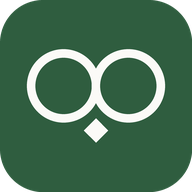
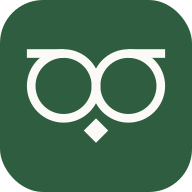
Body Update

diff --git a/public/index.html b/public/index.html
@@ -26,7 +26,7 @@
 
 <header class="site">
   <div class="wrap">
-    <a class="brand" href="/"><svg viewBox="0 0 1600 1083" aria-hidden="true" focusable="false"><g fill="none" stroke="currentColor" stroke-width="99"><circle cx="424.5" cy="424.5" r="375"/><circle cx="1174.5" cy="424.5" r="375"/></g><path d="M800 800 941 941 800 1082 659 941Z" fill="currentColor"/></svg><span>Owl Orchard</span></a>
+    <a class="brand" href="/"><svg viewBox="0 0 1600 1083.17" aria-hidden="true" focusable="false"><g fill="currentColor"><rect width="425" height="100"/><rect x="1175" width="425" height="100"/><path d="M800 800.33 941.42 941.75 800 1083.17 658.58 941.75Z"/></g><g fill="none" stroke="currentColor" stroke-width="100"><circle cx="425" cy="425" r="375"/><circle cx="1175" cy="425" r="375"/></g></svg><span>Owl Orchard</span></a>
     <nav class="site" aria-label="Primary">
       <a href="/#apps" aria-current="page">Apps</a>
       <a href="/about.html">About</a>
@@ -41,13 +41,11 @@
   <div class="wrap">
     <div class="prose">
       <span class="eyebrow">Independent studio &middot; Oregon, USA</span>
-      <h1>Native apps, built one at a time.</h1>
+      <h1>Organic experiences, native to iOS</h1>
       <p class="lede">Owl Orchard is an independent software studio in Oregon, building
-      native apps for iPhone, iPad, and Mac. Five so far: hexagonal chess, card games that
-      live inside iMessage, a tracker for the U.S. Congress, and a music visualizer for
-      macOS.</p>
-      <p>Every one of them is free. None of them show you an advertisement, and none of them
-      ask you to make an account unless you actually want a ranked online match.</p>
+      apps for iPhone, iPad, and Mac. Four so far: Hexagonal Chess, Card Games that
+      iMessage, a tracker for the U.S. Congress, and a music visualizer for macOS.</p>
+      <p>No ads. 100% free. All profits are from optional in-app purchases.</p>
       <div class="hero-actions">
         <a class="btn btn-primary" href="#apps">See the apps</a>
         <a class="btn btn-ghost" href="/about.html">About the studio</a>
@@ -67,7 +65,7 @@
   <div class="wrap">
     <div class="prose" style="margin-bottom:34px">
       <h2>The apps</h2>
-      <p>Four are on the App Store today. The fifth is finished and on its way.</p>
+      <p>Four on the App Store today with the fifth on its way.</p>
     </div>
     <div class="appgrid">
       <a class="card t-hexchess reveal" href="/hex-chess.html">
@@ -106,7 +104,7 @@
             <p class="card-sub">Mac &middot; Music</p>
           </div>
         </div>
-        <p class="desc">Milkdrop visuals rendered live from whatever your Mac is playing, with a curated library of 2,500+ community presets.</p>
+        <p class="desc">Milkdrop visuals rendered live from whatever your Mac is playing, with a curated library of 7,500+ community presets.</p>
         <div class="card-foot">
           <span class="pill pill-live">On the App Store</span>
           <span class="more" aria-hidden="true">View &rarr;</span>
@@ -134,7 +132,7 @@
             <p class="card-sub">iMessage app &middot; Card game</p>
           </div>
         </div>
-        <p class="desc">Texas Hold&rsquo;Em, Omaha, and 7 Card Stud, dealt straight into a conversation. No real money, ever.</p>
+        <p class="desc">Texas Hold&rsquo;Em, Omaha, and 7 Card Stud, dealt straight into an iMessage conversation.</p>
         <div class="card-foot">
           <span class="pill pill-soon">Coming soon</span>
           <span class="more" aria-hidden="true">View &rarr;</span>
@@ -148,8 +146,7 @@
   <div class="wrap">
     <div class="prose" style="margin-bottom:8px">
       <h2>How the work gets done</h2>
-      <p>Four things hold across every project, whether it is a chess engine or a
-      congressional bill feed.</p>
+      <p>Four things hold across every project, whether it is a chess engine or a congressional bill feed.</p>
     </div>
 
   <ul class="features reveal">
@@ -159,35 +156,17 @@
     </li>
     <li>
       <h3>Free, and honest about it</h3>
-      <p>Every app is free to download and free to play. There is no advertising SDK in any of them, no subscription, and no feature held hostage. The only thing ever sold is a cosmetic card back, bought once.</p>
+      <p>Every app is free to download and free to play. There is no advertising SDK in any of them, no subscription, and no feature held hostage. The only thing ever sold are cosmetic card backs.</p>
     </li>
     <li>
-      <h3>Built for more than English</h3>
-      <p>Hex Chess ships in 25 languages, Prism in 22, the card game apps in 18. VoiceOver and Voice Control reach individual cards and board tiles; Dynamic Type and Reduce Motion are honored throughout.</p>
+      <h3>Built to be accessible</h3>
+      <p>VoiceOver and Voice Control reach individual cards and board tiles, not just top-level buttons. Dynamic Type and Reduce Motion are honored throughout, and colour is never the only thing carrying meaning.</p>
     </li>
     <li>
-      <h3>Privacy as an architecture choice</h3>
+      <h3>Privacy is the architecture choice</h3>
       <p>The iMessage apps contain no networking code at all. Politica resolves your location on device and never transmits it. Hex Chess only asks for an account if you want a ranked online game. Nothing is tracked, sold, or shared.</p>
     </li>
   </ul>
-  </div>
-</section>
-
-<section class="section">
-  <div class="wrap">
-    <div class="prose reveal">
-      <span class="eyebrow">The studio</span>
-      <h2>Made in Oregon, slowly.</h2>
-      <p>Owl Orchard is small and independent, with no investors to answer to and no growth
-      target to hit. That shows up in the work: fewer apps, released when they are actually
-      finished, and kept working afterwards rather than replaced by the next thing.</p>
-      <p>It also means nobody here is arguing for an analytics SDK, and no app in the
-      catalogue needs anything from you beyond the time you choose to spend in it.</p>
-      <div class="hero-actions">
-        <a class="btn btn-ghost" href="/about.html">About the studio</a>
-        <a class="btn btn-ghost" href="/support.html">Get in touch</a>
-      </div>
-    </div>
   </div>
 </section>
 
@@ -198,9 +177,8 @@
     <div class="foot-grid">
 
       <div>
-        <span class="foot-brand"><svg viewBox="0 0 1600 1083" aria-hidden="true" focusable="false"><g fill="none" stroke="currentColor" stroke-width="99"><circle cx="424.5" cy="424.5" r="375"/><circle cx="1174.5" cy="424.5" r="375"/></g><path d="M800 800 941 941 800 1082 659 941Z" fill="currentColor"/></svg><span>Owl Orchard</span></span>
-        <p>An independent software studio in Oregon, building native apps for
-        Apple platforms. Free, quiet, and made to last.</p>
+        <span class="foot-brand"><svg viewBox="0 0 1600 1083.17" aria-hidden="true" focusable="false"><g fill="currentColor"><rect width="425" height="100"/><rect x="1175" width="425" height="100"/><path d="M800 800.33 941.42 941.75 800 1083.17 658.58 941.75Z"/></g><g fill="none" stroke="currentColor" stroke-width="100"><circle cx="425" cy="425" r="375"/><circle cx="1175" cy="425" r="375"/></g></svg><span>Owl Orchard</span></span>
+        <p>An independent software studio in Oregon, building native apps for Apple platforms.</p>
       </div>
 
       <div>

diff --git a/public/about.html b/public/about.html
@@ -25,7 +25,7 @@
 
 <header class="site">
   <div class="wrap">
-    <a class="brand" href="/"><svg viewBox="0 0 1600 1083" aria-hidden="true" focusable="false"><g fill="none" stroke="currentColor" stroke-width="99"><circle cx="424.5" cy="424.5" r="375"/><circle cx="1174.5" cy="424.5" r="375"/></g><path d="M800 800 941 941 800 1082 659 941Z" fill="currentColor"/></svg><span>Owl Orchard</span></a>
+    <a class="brand" href="/"><svg viewBox="0 0 1600 1083.17" aria-hidden="true" focusable="false"><g fill="currentColor"><rect width="425" height="100"/><rect x="1175" width="425" height="100"/><path d="M800 800.33 941.42 941.75 800 1083.17 658.58 941.75Z"/></g><g fill="none" stroke="currentColor" stroke-width="100"><circle cx="425" cy="425" r="375"/><circle cx="1175" cy="425" r="375"/></g></svg><span>Owl Orchard</span></a>
     <nav class="site" aria-label="Primary">
       <a href="/#apps">Apps</a>
       <a href="/about.html" aria-current="page">About</a>
@@ -40,9 +40,8 @@
   <div class="wrap">
     <div class="prose">
       <span class="eyebrow">About</span>
-      <h1>An independent studio in Oregon.</h1>
-      <p class="lede">Owl Orchard LLC builds native applications for iPhone, iPad, and Mac.
-      Five of them so far, and every one is free.</p>
+      <h1>Homegrown in Oregon.</h1>
+      <p class="lede">Owl Orchard builds native applications for iPhone, iPad, and Mac.</p>
     </div>
   </div>
 </section>
@@ -101,7 +100,7 @@
     <div class="foot-grid">
 
       <div>
-        <span class="foot-brand"><svg viewBox="0 0 1600 1083" aria-hidden="true" focusable="false"><g fill="none" stroke="currentColor" stroke-width="99"><circle cx="424.5" cy="424.5" r="375"/><circle cx="1174.5" cy="424.5" r="375"/></g><path d="M800 800 941 941 800 1082 659 941Z" fill="currentColor"/></svg><span>Owl Orchard</span></span>
+        <span class="foot-brand"><svg viewBox="0 0 1600 1083.17" aria-hidden="true" focusable="false"><g fill="currentColor"><rect width="425" height="100"/><rect x="1175" width="425" height="100"/><path d="M800 800.33 941.42 941.75 800 1083.17 658.58 941.75Z"/></g><g fill="none" stroke="currentColor" stroke-width="100"><circle cx="425" cy="425" r="375"/><circle cx="1175" cy="425" r="375"/></g></svg><span>Owl Orchard</span></span>
         <p>An independent software studio in Oregon, building native apps for
         Apple platforms. Free, quiet, and made to last.</p>
       </div>

diff --git a/public/card-games-for-imessage.html b/public/card-games-for-imessage.html
@@ -26,7 +26,7 @@
 
 <header class="site">
   <div class="wrap">
-    <a class="brand" href="/"><svg viewBox="0 0 1600 1083" aria-hidden="true" focusable="false"><g fill="none" stroke="currentColor" stroke-width="99"><circle cx="424.5" cy="424.5" r="375"/><circle cx="1174.5" cy="424.5" r="375"/></g><path d="M800 800 941 941 800 1082 659 941Z" fill="currentColor"/></svg><span>Owl Orchard</span></a>
+    <a class="brand" href="/"><svg viewBox="0 0 1600 1083.17" aria-hidden="true" focusable="false"><g fill="currentColor"><rect width="425" height="100"/><rect x="1175" width="425" height="100"/><path d="M800 800.33 941.42 941.75 800 1083.17 658.58 941.75Z"/></g><g fill="none" stroke="currentColor" stroke-width="100"><circle cx="425" cy="425" r="375"/><circle cx="1175" cy="425" r="375"/></g></svg><span>Owl Orchard</span></a>
     <nav class="site" aria-label="Primary">
       <a href="/#apps">Apps</a>
       <a href="/about.html">About</a>
@@ -130,7 +130,7 @@
     <div class="foot-grid">
 
       <div>
-        <span class="foot-brand"><svg viewBox="0 0 1600 1083" aria-hidden="true" focusable="false"><g fill="none" stroke="currentColor" stroke-width="99"><circle cx="424.5" cy="424.5" r="375"/><circle cx="1174.5" cy="424.5" r="375"/></g><path d="M800 800 941 941 800 1082 659 941Z" fill="currentColor"/></svg><span>Owl Orchard</span></span>
+        <span class="foot-brand"><svg viewBox="0 0 1600 1083.17" aria-hidden="true" focusable="false"><g fill="currentColor"><rect width="425" height="100"/><rect x="1175" width="425" height="100"/><path d="M800 800.33 941.42 941.75 800 1083.17 658.58 941.75Z"/></g><g fill="none" stroke="currentColor" stroke-width="100"><circle cx="425" cy="425" r="375"/><circle cx="1175" cy="425" r="375"/></g></svg><span>Owl Orchard</span></span>
         <p>An independent software studio in Oregon, building native apps for
         Apple platforms. Free, quiet, and made to last.</p>
       </div>

diff --git a/public/hex-chess.html b/public/hex-chess.html
@@ -26,7 +26,7 @@
 
 <header class="site">
   <div class="wrap">
-    <a class="brand" href="/"><svg viewBox="0 0 1600 1083" aria-hidden="true" focusable="false"><g fill="none" stroke="currentColor" stroke-width="99"><circle cx="424.5" cy="424.5" r="375"/><circle cx="1174.5" cy="424.5" r="375"/></g><path d="M800 800 941 941 800 1082 659 941Z" fill="currentColor"/></svg><span>Owl Orchard</span></a>
+    <a class="brand" href="/"><svg viewBox="0 0 1600 1083.17" aria-hidden="true" focusable="false"><g fill="currentColor"><rect width="425" height="100"/><rect x="1175" width="425" height="100"/><path d="M800 800.33 941.42 941.75 800 1083.17 658.58 941.75Z"/></g><g fill="none" stroke="currentColor" stroke-width="100"><circle cx="425" cy="425" r="375"/><circle cx="1175" cy="425" r="375"/></g></svg><span>Owl Orchard</span></a>
     <nav class="site" aria-label="Primary">
       <a href="/#apps">Apps</a>
       <a href="/about.html">About</a>
@@ -131,7 +131,7 @@
     <div class="foot-grid">
 
       <div>
-        <span class="foot-brand"><svg viewBox="0 0 1600 1083" aria-hidden="true" focusable="false"><g fill="none" stroke="currentColor" stroke-width="99"><circle cx="424.5" cy="424.5" r="375"/><circle cx="1174.5" cy="424.5" r="375"/></g><path d="M800 800 941 941 800 1082 659 941Z" fill="currentColor"/></svg><span>Owl Orchard</span></span>
+        <span class="foot-brand"><svg viewBox="0 0 1600 1083.17" aria-hidden="true" focusable="false"><g fill="currentColor"><rect width="425" height="100"/><rect x="1175" width="425" height="100"/><path d="M800 800.33 941.42 941.75 800 1083.17 658.58 941.75Z"/></g><g fill="none" stroke="currentColor" stroke-width="100"><circle cx="425" cy="425" r="375"/><circle cx="1175" cy="425" r="375"/></g></svg><span>Owl Orchard</span></span>
         <p>An independent software studio in Oregon, building native apps for
         Apple platforms. Free, quiet, and made to last.</p>
       </div>

diff --git a/public/poker-for-imessage.html b/public/poker-for-imessage.html
@@ -26,7 +26,7 @@
 
 <header class="site">
   <div class="wrap">
-    <a class="brand" href="/"><svg viewBox="0 0 1600 1083" aria-hidden="true" focusable="false"><g fill="none" stroke="currentColor" stroke-width="99"><circle cx="424.5" cy="424.5" r="375"/><circle cx="1174.5" cy="424.5" r="375"/></g><path d="M800 800 941 941 800 1082 659 941Z" fill="currentColor"/></svg><span>Owl Orchard</span></a>
+    <a class="brand" href="/"><svg viewBox="0 0 1600 1083.17" aria-hidden="true" focusable="false"><g fill="currentColor"><rect width="425" height="100"/><rect x="1175" width="425" height="100"/><path d="M800 800.33 941.42 941.75 800 1083.17 658.58 941.75Z"/></g><g fill="none" stroke="currentColor" stroke-width="100"><circle cx="425" cy="425" r="375"/><circle cx="1175" cy="425" r="375"/></g></svg><span>Owl Orchard</span></a>
     <nav class="site" aria-label="Primary">
       <a href="/#apps">Apps</a>
       <a href="/about.html">About</a>
@@ -138,7 +138,7 @@
     <div class="foot-grid">
 
       <div>
-        <span class="foot-brand"><svg viewBox="0 0 1600 1083" aria-hidden="true" focusable="false"><g fill="none" stroke="currentColor" stroke-width="99"><circle cx="424.5" cy="424.5" r="375"/><circle cx="1174.5" cy="424.5" r="375"/></g><path d="M800 800 941 941 800 1082 659 941Z" fill="currentColor"/></svg><span>Owl Orchard</span></span>
+        <span class="foot-brand"><svg viewBox="0 0 1600 1083.17" aria-hidden="true" focusable="false"><g fill="currentColor"><rect width="425" height="100"/><rect x="1175" width="425" height="100"/><path d="M800 800.33 941.42 941.75 800 1083.17 658.58 941.75Z"/></g><g fill="none" stroke="currentColor" stroke-width="100"><circle cx="425" cy="425" r="375"/><circle cx="1175" cy="425" r="375"/></g></svg><span>Owl Orchard</span></span>
         <p>An independent software studio in Oregon, building native apps for
         Apple platforms. Free, quiet, and made to last.</p>
       </div>

diff --git a/public/politica.html b/public/politica.html
@@ -26,7 +26,7 @@
 
 <header class="site">
   <div class="wrap">
-    <a class="brand" href="/"><svg viewBox="0 0 1600 1083" aria-hidden="true" focusable="false"><g fill="none" stroke="currentColor" stroke-width="99"><circle cx="424.5" cy="424.5" r="375"/><circle cx="1174.5" cy="424.5" r="375"/></g><path d="M800 800 941 941 800 1082 659 941Z" fill="currentColor"/></svg><span>Owl Orchard</span></a>
+    <a class="brand" href="/"><svg viewBox="0 0 1600 1083.17" aria-hidden="true" focusable="false"><g fill="currentColor"><rect width="425" height="100"/><rect x="1175" width="425" height="100"/><path d="M800 800.33 941.42 941.75 800 1083.17 658.58 941.75Z"/></g><g fill="none" stroke="currentColor" stroke-width="100"><circle cx="425" cy="425" r="375"/><circle cx="1175" cy="425" r="375"/></g></svg><span>Owl Orchard</span></a>
     <nav class="site" aria-label="Primary">
       <a href="/#apps">Apps</a>
       <a href="/about.html">About</a>
@@ -150,7 +150,7 @@
     <div class="foot-grid">
 
       <div>
-        <span class="foot-brand"><svg viewBox="0 0 1600 1083" aria-hidden="true" focusable="false"><g fill="none" stroke="currentColor" stroke-width="99"><circle cx="424.5" cy="424.5" r="375"/><circle cx="1174.5" cy="424.5" r="375"/></g><path d="M800 800 941 941 800 1082 659 941Z" fill="currentColor"/></svg><span>Owl Orchard</span></span>
+        <span class="foot-brand"><svg viewBox="0 0 1600 1083.17" aria-hidden="true" focusable="false"><g fill="currentColor"><rect width="425" height="100"/><rect x="1175" width="425" height="100"/><path d="M800 800.33 941.42 941.75 800 1083.17 658.58 941.75Z"/></g><g fill="none" stroke="currentColor" stroke-width="100"><circle cx="425" cy="425" r="375"/><circle cx="1175" cy="425" r="375"/></g></svg><span>Owl Orchard</span></span>
         <p>An independent software studio in Oregon, building native apps for
         Apple platforms. Free, quiet, and made to last.</p>
       </div>

diff --git a/public/prism.html b/public/prism.html
@@ -26,7 +26,7 @@
 
 <header class="site">
   <div class="wrap">
-    <a class="brand" href="/"><svg viewBox="0 0 1600 1083" aria-hidden="true" focusable="false"><g fill="none" stroke="currentColor" stroke-width="99"><circle cx="424.5" cy="424.5" r="375"/><circle cx="1174.5" cy="424.5" r="375"/></g><path d="M800 800 941 941 800 1082 659 941Z" fill="currentColor"/></svg><span>Owl Orchard</span></a>
+    <a class="brand" href="/"><svg viewBox="0 0 1600 1083.17" aria-hidden="true" focusable="false"><g fill="currentColor"><rect width="425" height="100"/><rect x="1175" width="425" height="100"/><path d="M800 800.33 941.42 941.75 800 1083.17 658.58 941.75Z"/></g><g fill="none" stroke="currentColor" stroke-width="100"><circle cx="425" cy="425" r="375"/><circle cx="1175" cy="425" r="375"/></g></svg><span>Owl Orchard</span></a>
     <nav class="site" aria-label="Primary">
       <a href="/#apps">Apps</a>
       <a href="/about.html">About</a>
@@ -139,7 +139,7 @@
     <div class="foot-grid">
 
       <div>
-        <span class="foot-brand"><svg viewBox="0 0 1600 1083" aria-hidden="true" focusable="false"><g fill="none" stroke="currentColor" stroke-width="99"><circle cx="424.5" cy="424.5" r="375"/><circle cx="1174.5" cy="424.5" r="375"/></g><path d="M800 800 941 941 800 1082 659 941Z" fill="currentColor"/></svg><span>Owl Orchard</span></span>
+        <span class="foot-brand"><svg viewBox="0 0 1600 1083.17" aria-hidden="true" focusable="false"><g fill="currentColor"><rect width="425" height="100"/><rect x="1175" width="425" height="100"/><path d="M800 800.33 941.42 941.75 800 1083.17 658.58 941.75Z"/></g><g fill="none" stroke="currentColor" stroke-width="100"><circle cx="425" cy="425" r="375"/><circle cx="1175" cy="425" r="375"/></g></svg><span>Owl Orchard</span></span>
         <p>An independent software studio in Oregon, building native apps for
         Apple platforms. Free, quiet, and made to last.</p>
       </div>

diff --git a/public/privacy-card-games.html b/public/privacy-card-games.html
@@ -25,7 +25,7 @@
 
 <header class="site">
   <div class="wrap">
-    <a class="brand" href="/"><svg viewBox="0 0 1600 1083" aria-hidden="true" focusable="false"><g fill="none" stroke="currentColor" stroke-width="99"><circle cx="424.5" cy="424.5" r="375"/><circle cx="1174.5" cy="424.5" r="375"/></g><path d="M800 800 941 941 800 1082 659 941Z" fill="currentColor"/></svg><span>Owl Orchard</span></a>
+    <a class="brand" href="/"><svg viewBox="0 0 1600 1083.17" aria-hidden="true" focusable="false"><g fill="currentColor"><rect width="425" height="100"/><rect x="1175" width="425" height="100"/><path d="M800 800.33 941.42 941.75 800 1083.17 658.58 941.75Z"/></g><g fill="none" stroke="currentColor" stroke-width="100"><circle cx="425" cy="425" r="375"/><circle cx="1175" cy="425" r="375"/></g></svg><span>Owl Orchard</span></a>
     <nav class="site" aria-label="Primary">
       <a href="/#apps">Apps</a>
       <a href="/about.html">About</a>
@@ -144,7 +144,7 @@
     <div class="foot-grid">
 
       <div>
-        <span class="foot-brand"><svg viewBox="0 0 1600 1083" aria-hidden="true" focusable="false"><g fill="none" stroke="currentColor" stroke-width="99"><circle cx="424.5" cy="424.5" r="375"/><circle cx="1174.5" cy="424.5" r="375"/></g><path d="M800 800 941 941 800 1082 659 941Z" fill="currentColor"/></svg><span>Owl Orchard</span></span>
+        <span class="foot-brand"><svg viewBox="0 0 1600 1083.17" aria-hidden="true" focusable="false"><g fill="currentColor"><rect width="425" height="100"/><rect x="1175" width="425" height="100"/><path d="M800 800.33 941.42 941.75 800 1083.17 658.58 941.75Z"/></g><g fill="none" stroke="currentColor" stroke-width="100"><circle cx="425" cy="425" r="375"/><circle cx="1175" cy="425" r="375"/></g></svg><span>Owl Orchard</span></span>
         <p>An independent software studio in Oregon, building native apps for
         Apple platforms. Free, quiet, and made to last.</p>
       </div>

diff --git a/public/privacy-hex-chess.html b/public/privacy-hex-chess.html
@@ -25,7 +25,7 @@
 
 <header class="site">
   <div class="wrap">
-    <a class="brand" href="/"><svg viewBox="0 0 1600 1083" aria-hidden="true" focusable="false"><g fill="none" stroke="currentColor" stroke-width="99"><circle cx="424.5" cy="424.5" r="375"/><circle cx="1174.5" cy="424.5" r="375"/></g><path d="M800 800 941 941 800 1082 659 941Z" fill="currentColor"/></svg><span>Owl Orchard</span></a>
+    <a class="brand" href="/"><svg viewBox="0 0 1600 1083.17" aria-hidden="true" focusable="false"><g fill="currentColor"><rect width="425" height="100"/><rect x="1175" width="425" height="100"/><path d="M800 800.33 941.42 941.75 800 1083.17 658.58 941.75Z"/></g><g fill="none" stroke="currentColor" stroke-width="100"><circle cx="425" cy="425" r="375"/><circle cx="1175" cy="425" r="375"/></g></svg><span>Owl Orchard</span></a>
     <nav class="site" aria-label="Primary">
       <a href="/#apps">Apps</a>
       <a href="/about.html">About</a>
@@ -131,7 +131,7 @@
     <div class="foot-grid">
 
       <div>
-        <span class="foot-brand"><svg viewBox="0 0 1600 1083" aria-hidden="true" focusable="false"><g fill="none" stroke="currentColor" stroke-width="99"><circle cx="424.5" cy="424.5" r="375"/><circle cx="1174.5" cy="424.5" r="375"/></g><path d="M800 800 941 941 800 1082 659 941Z" fill="currentColor"/></svg><span>Owl Orchard</span></span>
+        <span class="foot-brand"><svg viewBox="0 0 1600 1083.17" aria-hidden="true" focusable="false"><g fill="currentColor"><rect width="425" height="100"/><rect x="1175" width="425" height="100"/><path d="M800 800.33 941.42 941.75 800 1083.17 658.58 941.75Z"/></g><g fill="none" stroke="currentColor" stroke-width="100"><circle cx="425" cy="425" r="375"/><circle cx="1175" cy="425" r="375"/></g></svg><span>Owl Orchard</span></span>
         <p>An independent software studio in Oregon, building native apps for
         Apple platforms. Free, quiet, and made to last.</p>
       </div>

diff --git a/public/privacy-poker.html b/public/privacy-poker.html
@@ -25,7 +25,7 @@
 
 <header class="site">
   <div class="wrap">
-    <a class="brand" href="/"><svg viewBox="0 0 1600 1083" aria-hidden="true" focusable="false"><g fill="none" stroke="currentColor" stroke-width="99"><circle cx="424.5" cy="424.5" r="375"/><circle cx="1174.5" cy="424.5" r="375"/></g><path d="M800 800 941 941 800 1082 659 941Z" fill="currentColor"/></svg><span>Owl Orchard</span></a>
+    <a class="brand" href="/"><svg viewBox="0 0 1600 1083.17" aria-hidden="true" focusable="false"><g fill="currentColor"><rect width="425" height="100"/><rect x="1175" width="425" height="100"/><path d="M800 800.33 941.42 941.75 800 1083.17 658.58 941.75Z"/></g><g fill="none" stroke="currentColor" stroke-width="100"><circle cx="425" cy="425" r="375"/><circle cx="1175" cy="425" r="375"/></g></svg><span>Owl Orchard</span></a>
     <nav class="site" aria-label="Primary">
       <a href="/#apps">Apps</a>
       <a href="/about.html">About</a>
@@ -149,7 +149,7 @@
     <div class="foot-grid">
 
       <div>
-        <span class="foot-brand"><svg viewBox="0 0 1600 1083" aria-hidden="true" focusable="false"><g fill="none" stroke="currentColor" stroke-width="99"><circle cx="424.5" cy="424.5" r="375"/><circle cx="1174.5" cy="424.5" r="375"/></g><path d="M800 800 941 941 800 1082 659 941Z" fill="currentColor"/></svg><span>Owl Orchard</span></span>
+        <span class="foot-brand"><svg viewBox="0 0 1600 1083.17" aria-hidden="true" focusable="false"><g fill="currentColor"><rect width="425" height="100"/><rect x="1175" width="425" height="100"/><path d="M800 800.33 941.42 941.75 800 1083.17 658.58 941.75Z"/></g><g fill="none" stroke="currentColor" stroke-width="100"><circle cx="425" cy="425" r="375"/><circle cx="1175" cy="425" r="375"/></g></svg><span>Owl Orchard</span></span>
         <p>An independent software studio in Oregon, building native apps for
         Apple platforms. Free, quiet, and made to last.</p>
       </div>

diff --git a/public/privacy-politica.html b/public/privacy-politica.html
@@ -25,7 +25,7 @@
 
 <header class="site">
   <div class="wrap">
-    <a class="brand" href="/"><svg viewBox="0 0 1600 1083" aria-hidden="true" focusable="false"><g fill="none" stroke="currentColor" stroke-width="99"><circle cx="424.5" cy="424.5" r="375"/><circle cx="1174.5" cy="424.5" r="375"/></g><path d="M800 800 941 941 800 1082 659 941Z" fill="currentColor"/></svg><span>Owl Orchard</span></a>
+    <a class="brand" href="/"><svg viewBox="0 0 1600 1083.17" aria-hidden="true" focusable="false"><g fill="currentColor"><rect width="425" height="100"/><rect x="1175" width="425" height="100"/><path d="M800 800.33 941.42 941.75 800 1083.17 658.58 941.75Z"/></g><g fill="none" stroke="currentColor" stroke-width="100"><circle cx="425" cy="425" r="375"/><circle cx="1175" cy="425" r="375"/></g></svg><span>Owl Orchard</span></a>
     <nav class="site" aria-label="Primary">
       <a href="/#apps">Apps</a>
       <a href="/about.html">About</a>
@@ -120,7 +120,7 @@
     <div class="foot-grid">
 
       <div>
-        <span class="foot-brand"><svg viewBox="0 0 1600 1083" aria-hidden="true" focusable="false"><g fill="none" stroke="currentColor" stroke-width="99"><circle cx="424.5" cy="424.5" r="375"/><circle cx="1174.5" cy="424.5" r="375"/></g><path d="M800 800 941 941 800 1082 659 941Z" fill="currentColor"/></svg><span>Owl Orchard</span></span>
+        <span class="foot-brand"><svg viewBox="0 0 1600 1083.17" aria-hidden="true" focusable="false"><g fill="currentColor"><rect width="425" height="100"/><rect x="1175" width="425" height="100"/><path d="M800 800.33 941.42 941.75 800 1083.17 658.58 941.75Z"/></g><g fill="none" stroke="currentColor" stroke-width="100"><circle cx="425" cy="425" r="375"/><circle cx="1175" cy="425" r="375"/></g></svg><span>Owl Orchard</span></span>
         <p>An independent software studio in Oregon, building native apps for
         Apple platforms. Free, quiet, and made to last.</p>
       </div>

diff --git a/public/privacy-prism.html b/public/privacy-prism.html
@@ -25,7 +25,7 @@
 
 <header class="site">
   <div class="wrap">
-    <a class="brand" href="/"><svg viewBox="0 0 1600 1083" aria-hidden="true" focusable="false"><g fill="none" stroke="currentColor" stroke-width="99"><circle cx="424.5" cy="424.5" r="375"/><circle cx="1174.5" cy="424.5" r="375"/></g><path d="M800 800 941 941 800 1082 659 941Z" fill="currentColor"/></svg><span>Owl Orchard</span></a>
+    <a class="brand" href="/"><svg viewBox="0 0 1600 1083.17" aria-hidden="true" focusable="false"><g fill="currentColor"><rect width="425" height="100"/><rect x="1175" width="425" height="100"/><path d="M800 800.33 941.42 941.75 800 1083.17 658.58 941.75Z"/></g><g fill="none" stroke="currentColor" stroke-width="100"><circle cx="425" cy="425" r="375"/><circle cx="1175" cy="425" r="375"/></g></svg><span>Owl Orchard</span></a>
     <nav class="site" aria-label="Primary">
       <a href="/#apps">Apps</a>
       <a href="/about.html">About</a>
@@ -115,7 +115,7 @@
     <div class="foot-grid">
 
       <div>
-        <span class="foot-brand"><svg viewBox="0 0 1600 1083" aria-hidden="true" focusable="false"><g fill="none" stroke="currentColor" stroke-width="99"><circle cx="424.5" cy="424.5" r="375"/><circle cx="1174.5" cy="424.5" r="375"/></g><path d="M800 800 941 941 800 1082 659 941Z" fill="currentColor"/></svg><span>Owl Orchard</span></span>
+        <span class="foot-brand"><svg viewBox="0 0 1600 1083.17" aria-hidden="true" focusable="false"><g fill="currentColor"><rect width="425" height="100"/><rect x="1175" width="425" height="100"/><path d="M800 800.33 941.42 941.75 800 1083.17 658.58 941.75Z"/></g><g fill="none" stroke="currentColor" stroke-width="100"><circle cx="425" cy="425" r="375"/><circle cx="1175" cy="425" r="375"/></g></svg><span>Owl Orchard</span></span>
         <p>An independent software studio in Oregon, building native apps for
         Apple platforms. Free, quiet, and made to last.</p>
       </div>
